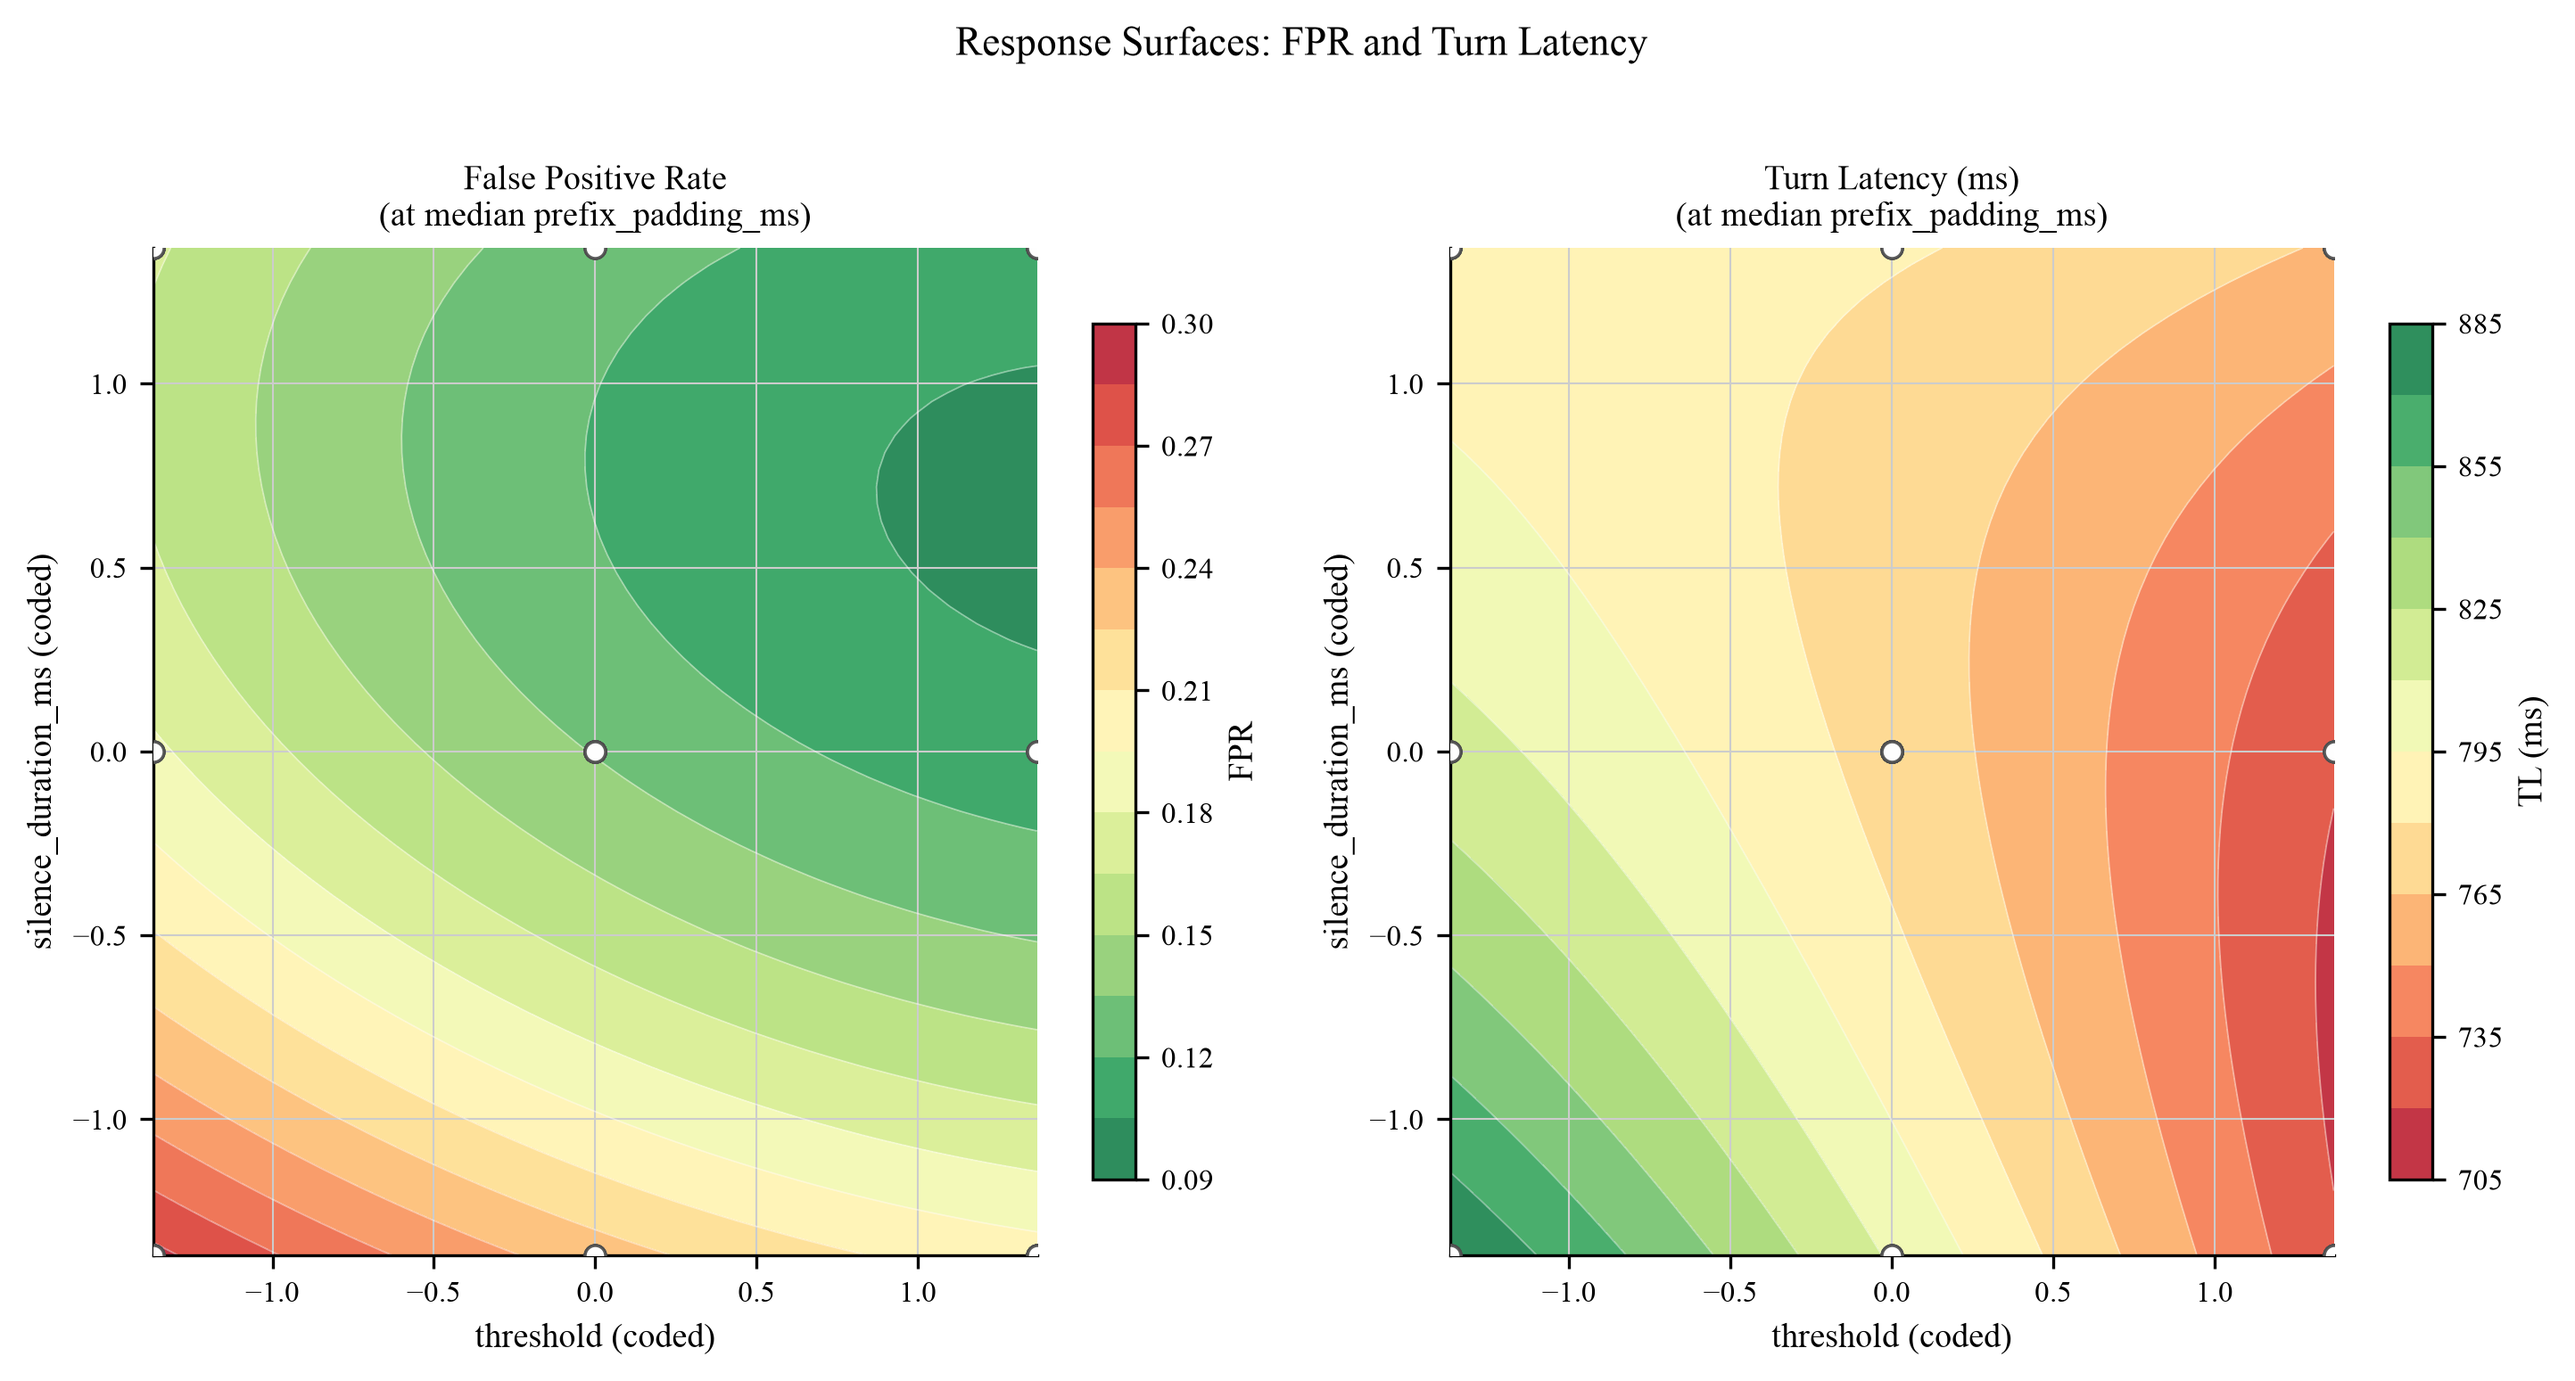
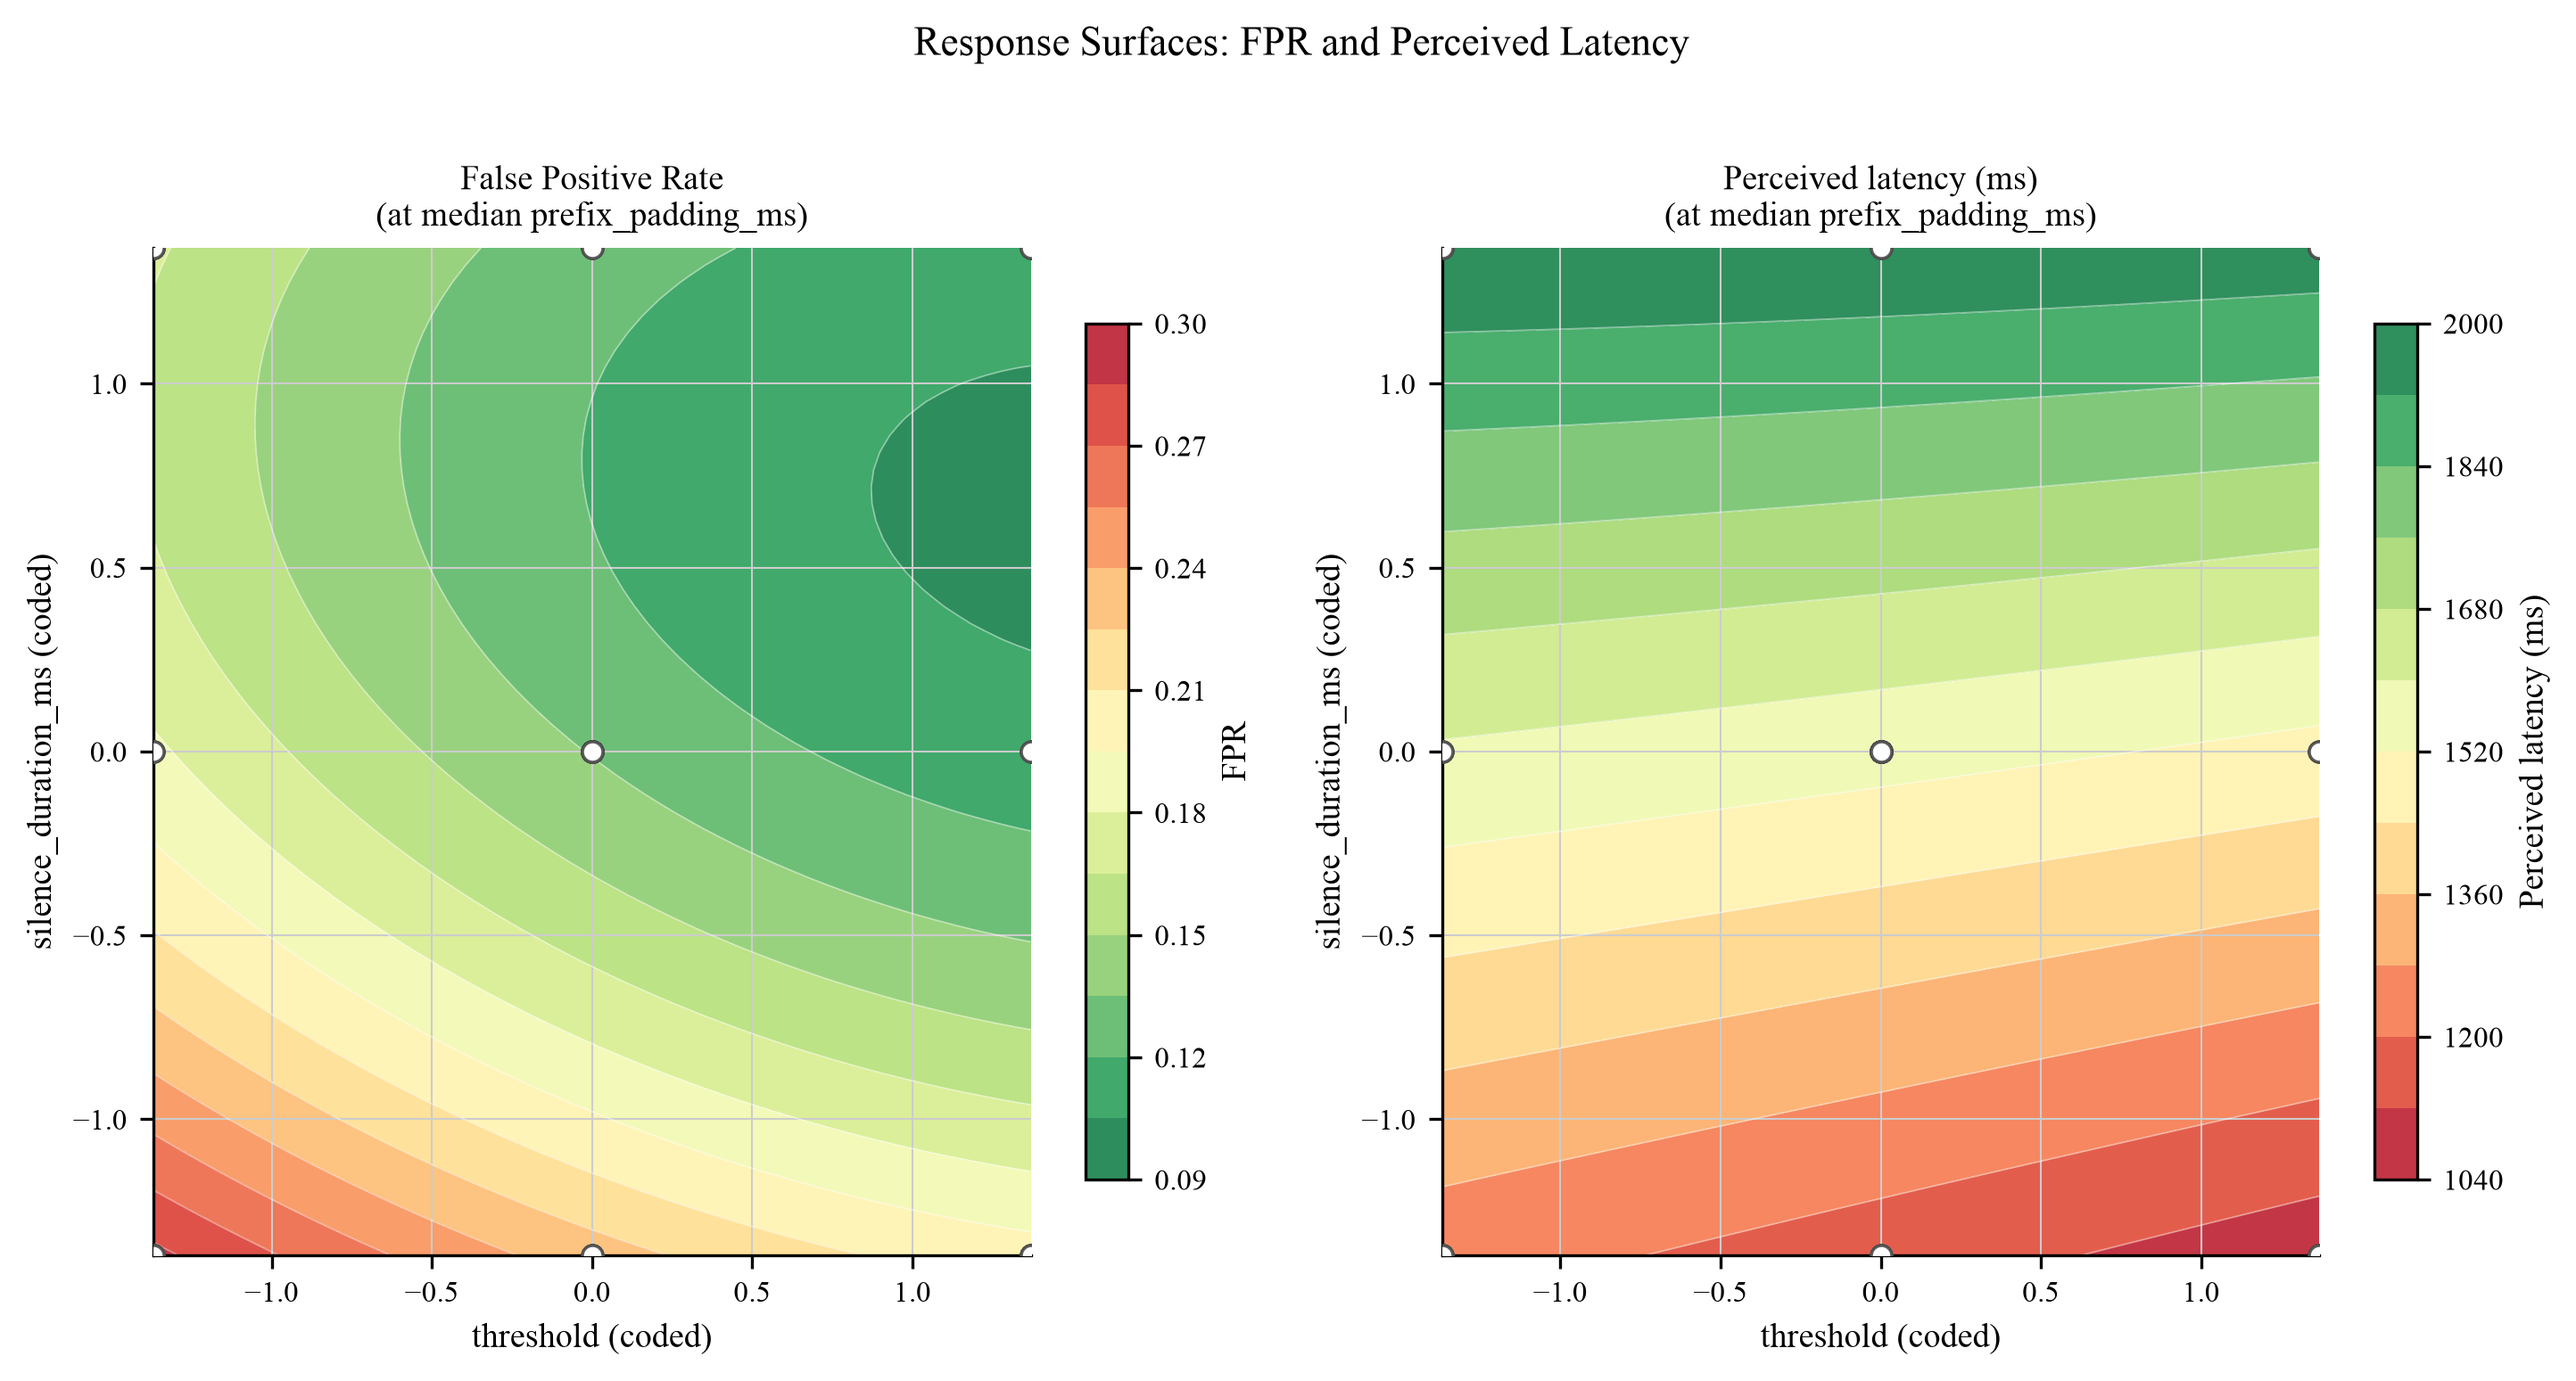
Complete perceived-latency switch in figures, align Paper 1 output with fresh run
fig1/fig3 response-surface and coefficient plots now fit against rsm_ptl
(perceived latency) instead of rsm_tl; fig4/fig6 marginal-effects and
day-effect plots now use ptl_ms. Fix a leftover colorbar label in fig1
that still read "TL (ms)" while its title said "Perceived latency (ms)".

fig5 (design coverage) and fig6 (day-effect) are no longer generated by
main() — intentional per author. Removed the now-stale PNGs from
papers/paper1/figures/ and dropped both rows from README's output table
so docs match what a fresh run actually produces.

Regenerated papers/paper1/figures/ via a clean venv run against
results/*.jsonl; sources/pareto_model.json unchanged (Pareto front
selection logic untouched by this edit).

diff --git a/sources/analyse_sweep.py b/sources/analyse_sweep.py
@@ -295,7 +295,13 @@ def fig1_response_surfaces(
 
     for ax, rsm, label, color, title in [
         (axes[0], rsm_fpr, "FPR", CONFIG["color_fpr"], "False Positive Rate"),
-        (axes[1], rsm_tl, "TL (ms)", CONFIG["color_tl"], "Turn Latency (ms)"),
+        (
+            axes[1],
+            rsm_tl,
+            "Perceived latency (ms)",
+            CONFIG["color_tl"],
+            "Perceived latency (ms)",
+        ),
     ]:
         X_poly_grid = rsm["poly"].transform(X_grid)
         Z = rsm["model"].predict(X_poly_grid).reshape(T.shape)
@@ -335,7 +341,7 @@ def fig1_response_surfaces(
         ax.set_ylabel("silence_duration_ms (coded)")
         ax.set_title(f"{title}\n(at median prefix_padding_ms)")
 
-    fig.suptitle("Response Surfaces: FPR and Turn Latency", y=1.02)
+    fig.suptitle("Response Surfaces: FPR and Perceived Latency", y=1.02)
     fig.tight_layout()
     path = output_dir / "fig1_response_surfaces.png"
     fig.savefig(path, dpi=CONFIG["dpi"], bbox_inches="tight")
@@ -407,7 +413,12 @@ def fig3_rsm_coefficients(rsm_fpr: dict, rsm_tl: dict, output_dir: Path):
 
     for ax, rsm, color, title in [
         (axes[0], rsm_fpr, CONFIG["color_fpr"], f"FPR  (R²={rsm_fpr['r2']:.3f})"),
-        (axes[1], rsm_tl, CONFIG["color_tl"], f"Turn Latency  (R²={rsm_tl['r2']:.3f})"),
+        (
+            axes[1],
+            rsm_tl,
+            CONFIG["color_tl"],
+            f"Perceived Latency  (R²={rsm_tl['r2']:.3f})",
+        ),
     ]:
         names = list(rsm["coef"].keys())
         coefs = list(rsm["coef"].values())
@@ -458,7 +469,7 @@ def fig4_marginal_effects(df: pd.DataFrame, output_dir: Path):
         for row, (outcome, color, ylabel) in enumerate(
             [
                 ("fpr", CONFIG["color_fpr"], "FPR"),
-                ("tl_ms", CONFIG["color_tl"], "Turn Latency (ms)"),
+                ("ptl_ms", CONFIG["color_tl"], "Perceived latency (ms)"),
             ]
         ):
             ax = axes[row][col]
@@ -556,7 +567,7 @@ def fig6_day_effect(df: pd.DataFrame, output_dir: Path):
 
     for ax, outcome, color, label in [
         (axes[0], "fpr", CONFIG["color_fpr"], "FPR"),
-        (axes[1], "tl_ms", CONFIG["color_tl"], "Turn Latency (ms)"),
+        (axes[1], "ptl_ms", CONFIG["color_tl"], "Perceived latency (ms)"),
     ]:
         days = sorted(df["recording_date"].dropna().unique())
         means = [df[df["recording_date"] == d][outcome].mean() for d in days]
@@ -775,14 +786,11 @@ def main():
     # Plots
     print(f"\nGenerating figures -> {output_dir}/")
     set_style()
-    fig1_response_surfaces(df, rsm_fpr, rsm_tl, output_dir)
+    fig1_response_surfaces(df, rsm_fpr, rsm_ptl, output_dir)
     fig2_pareto_front(df, output_dir)
     write_pareto_model(df, output_dir)
-    fig3_rsm_coefficients(rsm_fpr, rsm_tl, output_dir)
+    fig3_rsm_coefficients(rsm_fpr, rsm_ptl, output_dir)
     fig4_marginal_effects(df, output_dir)
-    fig5_design_coverage(df, output_dir)
-    if "recording_date" in df.columns and df["recording_date"].notna().any():
-        fig6_day_effect(df, output_dir)
     write_summary(df, rsm_fpr, rsm_tl, output_dir, rsm_ptl=rsm_ptl)
 
     print(

diff --git a/README.md b/README.md
@@ -236,8 +236,6 @@ configurable in the `CONFIG` dict at the top of `analyse_sweep.py`.
 | `fig2_pareto_front.png` | Pareto front in FPR–TL objective space |
 | `fig3_rsm_coefficients.png` | RSM coefficients with significance markers (Bonferroni-corrected, p < 0.005) |
 | `fig4_marginal_effects.png` | Marginal effects of each parameter on FPR and TL |
-| `fig5_design_coverage.png` | CCD design point completion status |
-| `fig6_day_effect.png` | FPR and TL by recording date (day-effect covariate with mean ± SEM, if available) |
 | `summary.txt` | Descriptive statistics, R², significant terms, Pareto configurations |
 | `pareto_model.json` | Pareto-optimal configurations for use by `adaptive_tuner.py` |
 
